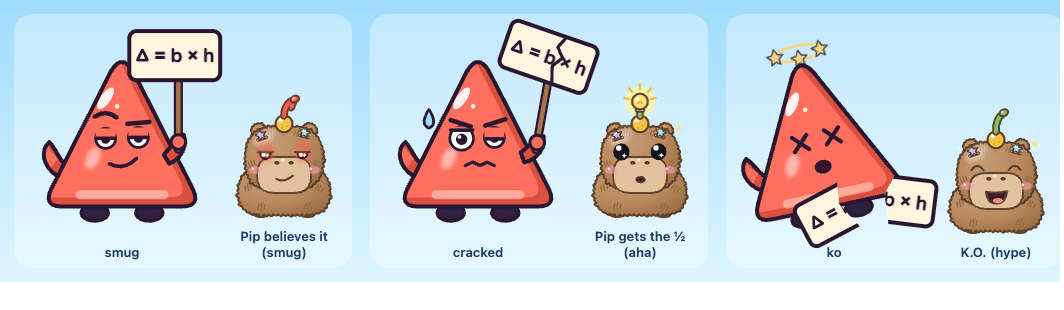
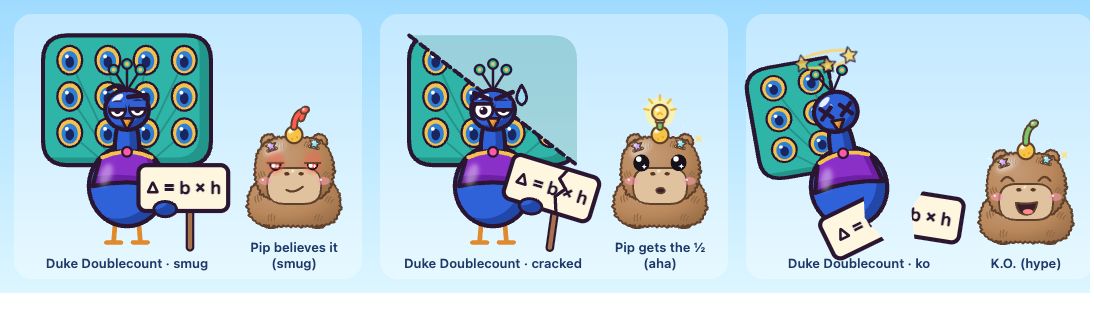
Pip2D: Duke Doublecount peacock boss (fan folds in half); evolution v1-v3; earned items + stickers + comeback frame (P2D-7b, P2D-8)

diff --git a/frontend/src/pip2d/Boss2D.jsx b/frontend/src/pip2d/Boss2D.jsx
@@ -14,14 +14,14 @@ export const BOSS_NAMES = {
   walrus: 'Top-Top Bottom-Bottom',
   penguin: 'Pause-Pause Penguin',
   hamster: 'Hop-Hop Hamster',
-  triangle: 'Triangle boss', // placeholder until content names it (a_tri.assignment.json)
+  triangle: 'Duke Doublecount',
 }
 
 // Pick a boss by id, or by keywords in the lesson's boss name / backstory.
 export function bossIdFor(idOrName = '') {
   const s = String(idOrName).toLowerCase()
   if (BOSS_NAMES[s]) return s
-  if (/triangle|△|tri\b|area|b\s*[×x*]\s*h|base.*height/.test(s)) return 'triangle'
+  if (/doublecount|duke|peacock|triangle|△|tri\b|area|b\s*[×x*]\s*h|base.*height/.test(s)) return 'triangle'
   if (/walrus|top-top|bottom-bottom|fraction/.test(s)) return 'walrus'
   if (/penguin|pause|comma/.test(s)) return 'penguin'
   if (/hamster|hop-hop|suitcase/.test(s)) return 'hamster'
@@ -299,48 +299,93 @@ function Hamster({ state, id }) {
   )
 }
 
-// Placeholder triangle boss: a smug glossy triangle who forgot the 1/2, holding up "△ = b × h".
-function Triangle({ state, id }) {
-  const fill = '#FF6F5E'
-  const shade = '#D9503F'
+// Duke Doublecount (boss id "triangle"): a smug aristocratic peacock in a tiny cape, holding "△ = b × h".
+// He claims the whole rectangle every time: his tail fan is a big rectangle. Each hit divides it by two:
+// cracked = folded diagonally into a triangle; K.O. = folded flat in half.
+function Peacock({ state, id }) {
+  const blue = '#2F62D9'
+  const blueShade = '#2147A8'
   const ko = state === 'ko'
-  const BODY = 'M98,54 Q110,34 122,54 L188,184 Q197,203 176,203 L44,203 Q23,203 32,184 Z'
+  const FAN = 'M48,14 H172 Q198,14 198,40 V124 Q198,150 172,150 H48 Q22,150 22,124 V40 Q22,14 48,14 Z'
+  const spots = []
+  for (const y of [40, 78, 116]) for (const x of [50, 90, 130, 170]) spots.push([x, y])
+  const fanClip =
+    state === 'cracked'
+      ? 'M18,154 L202,154 L18,10 Z' // half of the rectangle: a triangle
+      : ko
+        ? 'M18,10 L110,10 L110,154 L18,154 Z' // folded flat in half
+        : 'M10,6 H210 V160 H10 Z'
   return (
-    <g transform={ko ? 'rotate(-12 110 220)' : undefined}>
-      <V d={ell(80, 210, 15, 9)} fill="#2E2140" uid={`${id}l1`} w={3.6} />
-      <V d={ell(140, 210, 15, 9)} fill="#2E2140" uid={`${id}l2`} w={3.6} />
-      {/* hand on hip */}
-      <V d="M40,170 C22,160 20,140 30,132 C38,140 40,152 50,158 Z" fill={fill} shade={shade} uid={`${id}a1`} />
-      <V d={BODY} fill={fill} shade={shade} uid={`${id}b`} sx={-14} sy={-10} />
-      <path d="M64,190 L156,190" stroke="#FFD0C4" strokeWidth="10" strokeLinecap="round" opacity="0.6" />
-      <Gloss x={92} y={84} rx={14} ry={5.5} rot={-55} />
-      <ellipse cx="78" cy="150" rx="7" ry="13" transform="rotate(25 78 150)" fill="#fff" opacity="0.5" filter={`url(#${id}gel)`} />
-      <BossEyes L={[92, 128]} R={[128, 127]} r={8} state={state} lid={fill} />
-      {state === 'smug' && <path d="M96,156 Q112,164 126,150" fill="none" stroke={INK} strokeWidth="4" strokeLinecap="round" />}
-      {state === 'cracked' && <path d="M96,158 L104,154 L112,158 L120,154 L128,158" fill="none" stroke={INK} strokeWidth="3.6" strokeLinecap="round" strokeLinejoin="round" />}
-      {ko && <ellipse cx="111" cy="158" rx="8" ry="6" fill="#3A1426" stroke={INK} strokeWidth="3" />}
-      {/* the sign, held up high */}
+    <g transform={ko ? 'rotate(-10 110 232)' : undefined}>
+      <defs>
+        <clipPath id={`${id}fan`}>
+          <path d={fanClip} />
+        </clipPath>
+      </defs>
+      {/* the rectangle tail fan */}
+      <g transform={ko ? 'translate(0 22) scale(1 0.86)' : undefined}>
+        {state === 'cracked' && <path d="M22,14 L198,150 L198,40 Q198,14 172,14 Z" fill="#1F8C82" opacity="0.28" />}
+        <g clipPath={`url(#${id}fan)`}>
+          <V d={FAN} fill="#2FB5A8" shade="#23968B" uid={`${id}f`} sx={-12} sy={-8} />
+          {spots.map(([x, y], i) => (
+            <path key={`r${i}`} d={`M110,168 L${x},${y}`} stroke="#1F7C73" strokeWidth="2" opacity="0.6" />
+          ))}
+          {spots.map(([x, y], i) => (
+            <g key={i}>
+              <ellipse cx={x} cy={y} rx="13" ry="15" fill="#F2C14E" stroke={INK} strokeWidth="2.4" />
+              <ellipse cx={x} cy={y + 1} rx="8.5" ry="10.5" fill="#2E7FD6" />
+              <ellipse cx={x} cy={y + 2} rx="4.5" ry="6" fill="#1B2560" />
+              <circle cx={x - 3} cy={y - 4} r="2" fill="#fff" />
+            </g>
+          ))}
+        </g>
+        {state === 'cracked' && <path d="M22,14 L198,150" stroke={INK} strokeWidth="4" strokeLinecap="round" strokeDasharray="10 5" />}
+        {ko && <path d="M110,14 L110,150" stroke={INK} strokeWidth="4" strokeLinecap="round" strokeDasharray="10 5" />}
+      </g>
+      {/* legs */}
+      <path d="M98,206 L96,230 M122,206 L124,230" stroke="#E08A2E" strokeWidth="5" strokeLinecap="round" />
+      <path d="M88,231 L104,231 M116,231 L132,231" stroke="#E08A2E" strokeWidth="4.5" strokeLinecap="round" />
+      {/* body + neck + head */}
+      <V d={ell(110, 172, 40, 42)} fill={blue} shade={blueShade} uid={`${id}b`} />
+      <V d="M98,150 C96,128 98,112 102,104 L118,104 C122,112 124,128 122,150 Z" fill={blue} shade={blueShade} uid={`${id}n`} />
+      <V d={ell(110, 92, 23, 21)} fill={blue} shade={blueShade} uid={`${id}h`} sx={-6} sy={-5} />
+      {/* crest */}
+      {[[96, 50], [110, 44], [124, 50]].map(([x, y], i) => (
+        <g key={i}>
+          <path d={`M110,72 L${x},${y}`} stroke={INK} strokeWidth="2.6" strokeLinecap="round" />
+          <circle cx={x} cy={y} r="5" fill="#2FB5A8" stroke={INK} strokeWidth="2.4" />
+          <circle cx={x} cy={y} r="2" fill="#F2C14E" />
+        </g>
+      ))}
+      <Gloss x={100} y={80} rx={7} ry={3} rot={-35} />
+      <BossEyes L={[100, 92]} R={[121, 91]} r={5.5} state={state} lid={blue} />
+      <V d="M104,101 L117,101 L110,113 Z" fill="#F2A33A" shade="#D9862A" uid={`${id}bk`} w={3} sx={-3} sy={-2} />
+      {/* tiny cape with a gold clasp */}
+      <V d="M82,142 Q110,128 138,142 L146,172 Q110,164 74,172 Z" fill="#8B2FC9" shade="#6E1FA6" uid={`${id}cape`} />
+      <path d="M84,142 Q110,130 136,142" fill="none" stroke="#F2C14E" strokeWidth="4" strokeLinecap="round" />
+      <circle cx="110" cy="136" r="5" fill="#FF5AA5" stroke={INK} strokeWidth="2.4" />
+      <ellipse cx="88" cy="160" rx="6" ry="12" transform="rotate(20 88 160)" fill="#fff" opacity="0.4" filter={`url(#${id}gel)`} />
+      {/* the sign */}
       {ko ? (
         <g>
           <path d="M184,236 L178,206" stroke="#8A5A3C" strokeWidth="7" strokeLinecap="round" />
-          <Board x={96} y={176} w={104} h={50} lines={['△ = b × h']} size={21} state="ko" id={`${id}s`} />
+          <Board x={98} y={182} w={100} h={46} lines={['△ = b × h']} size={19} state="ko" id={`${id}s`} />
         </g>
       ) : (
-        <g transform={state === 'cracked' ? 'rotate(10 170 150)' : undefined}>
-          <V d="M162,156 C176,150 182,136 178,124 C170,126 164,138 156,146 Z" fill={fill} shade={shade} uid={`${id}a2`} />
-          <path d="M172,140 L172,62" stroke={INK} strokeWidth="10" strokeLinecap="round" />
-          <path d="M172,140 L172,62" stroke="#A8724C" strokeWidth="5" strokeLinecap="round" />
-          <Board x={118} y={10} w={100} h={54} lines={['△ = b × h']} size={21} state={state === 'cracked' ? 'cracked' : 'smug'} id={`${id}s`} />
-          <circle cx="172" cy="132" r="8" fill={fill} stroke={INK} strokeWidth="3.4" />
+        <g transform={state === 'cracked' ? 'rotate(8 170 190)' : undefined}>
+          <path d="M176,236 L176,196" stroke={INK} strokeWidth="9" strokeLinecap="round" />
+          <path d="M176,236 L176,196" stroke="#A8724C" strokeWidth="4.5" strokeLinecap="round" />
+          <Board x={122} y={150} w={94} h={48} lines={['△ = b × h']} size={19} state={state === 'cracked' ? 'cracked' : 'smug'} id={`${id}s`} />
+          <V d={ell(150, 196, 12, 8)} fill={blue} shade={blueShade} uid={`${id}w`} w={3} />
         </g>
       )}
-      {state === 'cracked' && <Sweat x={56} y={96} />}
-      {ko && <KOStars x={110} y={30} />}
+      {state === 'cracked' && <Sweat x={140} y={66} />}
+      {ko && <KOStars x={110} y={36} />}
     </g>
   )
 }
 
-const ART = { walrus: Walrus, penguin: Penguin, hamster: Hamster, triangle: Triangle }
+const ART = { walrus: Walrus, penguin: Penguin, hamster: Hamster, triangle: Peacock }
 
 export function Boss2D({ boss = 'walrus', state, hp, size = 200, className = '', title }) {
   const id = useId().replace(/:/g, '')

diff --git a/frontend/src/pip2d/Pip2D.jsx b/frontend/src/pip2d/Pip2D.jsx
@@ -1,10 +1,13 @@
 import { useEffect, useId, useRef, useState } from 'react'
 import { BLUSH, BOSS_TINT, EYE, MOOD_ALIASES, MOUTH, TONGUE } from './tokens'
 import { CREATURE_DEFS } from './creatures'
-import { mix } from './shapes'
+import { mix, Shape } from './shapes'
+import { ellipsePoints } from './fuzz'
+import { HalfPinArt, FixedStarArt } from './earned'
 import { ACCESSORIES_2D, Y2KDefs, Gel, Glint, Sparkles, StarClips, Charm, FrostVisor, Shades, HoloBandAid, RimLight, starPath } from './y2k'
 
 export { ACCESSORIES_2D }
+export { Sticker2D, ComebackFrame, EARNED_ITEMS } from './earned'
 import './pip2d.css'
 
 // Pip as a flat, hand-inked 2D character. viewBox 200 x 220, no dependencies.
@@ -183,7 +186,7 @@ function talkShape(mouth) {
   return 'o'
 }
 
-function Sprout({ pose, anchor, t, flower, tint, gid }) {
+function Sprout({ pose, anchor, t, flower, tint, gid, grown }) {
   const sp = SPROUTS[pose] ?? SPROUTS.droop
   const col = tint ?? (anchor.yuzu ? '#7CC46A' : t.body)
   const [tx, ty] = sp.tip
@@ -211,6 +214,14 @@ function Sprout({ pose, anchor, t, flower, tint, gid }) {
         )}
         <path d={sp.d} fill="none" stroke={t.ink} strokeWidth="13" strokeLinecap="round" strokeLinejoin="round" />
         <path d={sp.d} fill="none" stroke={col} strokeWidth="6.5" strokeLinecap="round" strokeLinejoin="round" />
+        {grown && !bulb && (
+          // v2: a second leaf on the stem + a small glowing bud
+          <g>
+            <ellipse cx="91" cy="33" rx="7.5" ry="4.5" transform="rotate(30 91 33)" fill={col} stroke={t.ink} strokeWidth="3" />
+            <circle className="pip2d-glow" cx={tx + 6} cy={ty - 6} r="7" fill="#FFF3A0" />
+            <circle cx={tx + 6} cy={ty - 6} r="3.6" fill="#FFD25A" stroke={t.ink} strokeWidth="2" />
+          </g>
+        )}
         {pose === 'crown' && (
           <path d={`M${tx - 20},${ty + 8} L${tx - 22},${ty - 10} L${tx - 11},${ty - 2} L${tx},${ty - 22} L${tx + 11},${ty - 2} L${tx + 22},${ty - 10} L${tx + 20},${ty + 8} Z`} fill="#FFD25A" stroke={t.ink} strokeWidth="3.4" strokeLinejoin="round" />
         )}
@@ -245,6 +256,8 @@ function Sprout({ pose, anchor, t, flower, tint, gid }) {
 function Accessory({ type, t, A, id, hx0, hx1, visorY }) {
   const [L, R] = A.eyes
   if (type === 'starclips') return <StarClips id={id} A={A} t={t} />
+  if (type === 'half_pin') return <HalfPinArt x={A.badge[0]} y={A.badge[1]} s={1.5} id={id} ink={t.ink} />
+  if (type === 'fixed_it_star') return <FixedStarArt x={A.badge[0]} y={A.badge[1]} s={1.4} id={id} ink={t.ink} />
   if (type === 'charm') return <Charm id={id} A={A} t={t} />
   if (type === 'visor') return <FrostVisor id={id} hx0={hx0} hx1={hx1} y={visorY} t={t} />
   if (type === 'shades') return <Shades id={id} A={A} t={t} />
@@ -396,6 +409,7 @@ export function Pip2D({
   depth = false,
   tilt,
   holo = false,
+  version,
   className = '',
   title,
 }) {
@@ -409,7 +423,10 @@ export function Pip2D({
   const cute = vibe === 'cute'
   const cool = vibe === 'cool'
   const ugly = vibe === 'ugly'
-  const awakened = form === 'awakened'
+  // evolution: v1 base, v2 grown, v3 awakened (form="awakened" is v3)
+  const ver = form === 'awakened' ? 3 : Math.max(1, Math.min(3, Number(version) || 1))
+  const awakened = ver === 3
+  const grown = ver >= 2
   // vibe defaults when no accessory is chosen: cute = star clips, cool = frosted visor
   const acc = accessory === 'none' ? (cute ? 'starclips' : cool ? 'visor' : 'none') : accessory
   const id = useId().replace(/:/g, '')
@@ -419,8 +436,8 @@ export function Pip2D({
 
   // eyes: cool = permanent ~60% lid; ugly = tired (heavier lids + bags)
   const lids = (spec.lids ?? [0.35, 0.37]).map((l) => {
-    const v = ugly ? Math.min(0.6, l + 0.15) : l
-    return cool ? Math.max(v, 0.6) : v
+    const v = (ugly ? Math.min(0.6, l + 0.15) : l) - (grown ? 0.05 : 0)
+    return Math.max(0, cool ? Math.max(v, 0.6) : v)
   })
   const sizes = spec.scale ?? [1, 1]
   const plainEyes = !['arcs', 'spiral', 'dots'].includes(spec.eyes)
@@ -476,6 +493,17 @@ export function Pip2D({
           <ellipse cx="100" cy="128" rx="86" ry="90" fill="none" stroke="#C9FCFC" strokeWidth="2.5" opacity="0.8" />
         </g>
       )}
+      {awakened && (
+        // v3: cape-like fluffy back tuft peeking out at the shoulders
+        <Shape
+          pts={ellipsePoints(100, A.neck.y + 4, (A.neck.x1 - A.neck.x0) / 2 + 16, 38)}
+          fur={{ key: `cape-${def.name}`, seed: 77, amp: 3.6, spacing: 7, tuftChance: 0.35 }}
+          fill={mix(t.body, '#ffffff', 0.25)}
+          shade={t.shade}
+          ink={t.ink}
+          uid={`${id}cape`}
+        />
+      )}
       {acc === 'backpack' && <BackpackBehind t={t} A={A} />}
       {split && (
         <g>
@@ -521,7 +549,15 @@ export function Pip2D({
   )
   const sprout = (
     <>
-      <Sprout pose={awakened ? 'crown' : spec.sprout} anchor={A.sprout} t={t} flower={false} tint={m === 'possessed' ? BOSS_TINT : undefined} gid={id} />
+      {grown && (
+        // v2+: a bigger head tuft around the sprout
+        <g>
+          {[-1, 1, 0].map((k) => (
+            <ellipse key={k} cx={A.sprout.x + k * 10} cy={A.sprout.y + (A.sprout.yuzu ? 22 : 6) - (k === 0 ? 3 : 0)} rx="6" ry="10" transform={`rotate(${k * 35} ${A.sprout.x + k * 10} ${A.sprout.y + (A.sprout.yuzu ? 22 : 6)})`} fill={t.body} stroke={t.ink} strokeWidth="2.6" />
+          ))}
+        </g>
+      )}
+      <Sprout pose={awakened ? 'crown' : spec.sprout} anchor={A.sprout} t={t} flower={false} tint={m === 'possessed' ? BOSS_TINT : undefined} gid={id} grown={grown} />
       {(m === 'aha' || m === 'proud') && <Sparkles A={A} />}
     </>
   )
@@ -530,6 +566,26 @@ export function Pip2D({
     <>
       {m === 'notes' && <Notebook t={t} A={A} />}
       {m === 'overwhelmed' && <SweatDrop at={A.sweat} />}
+      {grown && acc !== 'scarf' && (
+        // level-up collar: a slim glossy holo band with a star tag
+        <g>
+          <path d={`M${A.neck.x0 + 14},${A.neck.y - 3} Q100,${A.neck.y + 7} ${A.neck.x1 - 14},${A.neck.y - 4}`} fill="none" stroke={t.ink} strokeWidth="9" strokeLinecap="round" />
+          <path d={`M${A.neck.x0 + 14},${A.neck.y - 3} Q100,${A.neck.y + 7} ${A.neck.x1 - 14},${A.neck.y - 4}`} fill="none" stroke={`url(#${id}holo)`} strokeWidth="5" strokeLinecap="round" />
+          <path d={starPath(100, A.neck.y + 10, 6.5)} fill="#FFD25A" stroke={t.ink} strokeWidth="2" strokeLinejoin="round" />
+        </g>
+      )}
+      {awakened && (
+        // v3: star-glint fur sheen
+        <g>
+          {[
+            [A.blush[0][0] - 6, A.blush[0][1] + 24, 4.5],
+            [A.blush[1][0] + 4, A.blush[1][1] + 30, 5.5],
+            [A.head.cx + A.head.w * 0.36, A.head.top + 26, 4],
+          ].map(([x, y, r], i) => (
+            <Glint key={i} x={x} y={y} r={r} />
+          ))}
+        </g>
+      )}
       {ugly && <HoloBandAid A={A} t={t} id={id} />}
       {ugly && acc !== 'starclips' && <StarClips id={id} A={A} t={t} bent />}
       <Accessory type={acc} t={t} A={A} id={id} hx0={hx0} hx1={hx1} visorY={visorY} />

diff --git a/frontend/src/pip2d/earned.jsx b/frontend/src/pip2d/earned.jsx
@@ -1,0 +1,96 @@
+import { useId } from 'react'
+import { Gel, Y2KDefs, starPath } from './y2k'
+
+// Earned commemorative items: wearable on Pip (accessory ids) and as album stickers.
+export const EARNED_ITEMS = ['half_pin', 'fixed_it_star']
+
+// Glossy enamel pin: a triangle split in half (gold rim, two enamel halves).
+export function HalfPinArt({ x, y, s = 1, id, ink = '#2A1630' }) {
+  const T = (dx, dy) => `${x + dx * s},${y + dy * s}`
+  return (
+    <g>
+      <path d={`M${T(0, -13)} L${T(13, 10)} L${T(-13, 10)} Z`} fill="#F2C14E" stroke={ink} strokeWidth={2.6} strokeLinejoin="round" />
+      <path d={`M${T(0, -8.5)} L${T(0, 7)} L${T(-9, 7)} Z`} fill="#FF8FC7" />
+      <path d={`M${T(0, -8.5)} L${T(9, 7)} L${T(0, 7)} Z`} fill="#7FE9FF" />
+      <path d={`M${T(0, -10)} L${T(0, 9)}`} stroke="#B98A1E" strokeWidth={1.6} strokeDasharray="2 1.6" />
+      <Gel id={id} x={x - 4 * s} y={y - 2 * s} r={2.6 * s} />
+    </g>
+  )
+}
+
+// Gold star with a small band-aid: earned by winning after a re-teach.
+export function FixedStarArt({ x, y, s = 1, id, ink = '#2A1630' }) {
+  return (
+    <g>
+      <path d={starPath(x, y, 13 * s)} fill="#FFD25A" stroke={ink} strokeWidth={2.6} strokeLinejoin="round" />
+      <g transform={`rotate(-28 ${x} ${y})`}>
+        <rect x={x - 9 * s} y={y - 3 * s} width={18 * s} height={6.5 * s} rx={3 * s} fill="#F2D3B1" stroke={ink} strokeWidth={1.8} />
+        <rect x={x - 3 * s} y={y - 2 * s} width={6 * s} height={4.5 * s} rx={1} fill="#E8BE94" />
+      </g>
+      <Gel id={id} x={x - 5 * s} y={y - 5 * s} r={2.6 * s} />
+    </g>
+  )
+}
+
+// Album sticker: die-cut white border + holo sheen. item = half_pin | fixed_it_star | comeback
+export function Sticker2D({ item = 'half_pin', size = 96, label }) {
+  const id = useId().replace(/:/g, '')
+  const art =
+    item === 'fixed_it_star' ? (
+      <FixedStarArt x={50} y={46} s={2.2} id={id} />
+    ) : item === 'comeback' ? (
+      <g>
+        <path d={starPath(50, 44, 26)} fill={`url(#${id}holo)`} stroke="#2A1630" strokeWidth="3" strokeLinejoin="round" />
+        <path d="M30,46 Q50,30 70,46" fill="none" stroke="#2A1630" strokeWidth="3" strokeLinecap="round" />
+        <path d="M44,54 L50,60 L58,48" fill="none" stroke="#2A1630" strokeWidth="3.4" strokeLinecap="round" strokeLinejoin="round" />
+      </g>
+    ) : (
+      <HalfPinArt x={50} y={48} s={2.3} id={id} />
+    )
+  const text = label ?? (item === 'fixed_it_star' ? 'FIXED IT' : item === 'comeback' ? 'COMEBACK' : '½ OF IT')
+  return (
+    <svg width={size} height={size} viewBox="0 0 100 100" role="img" aria-label={`${text} sticker`}>
+      <defs>
+        <Y2KDefs id={id} />
+      </defs>
+      <circle cx="50" cy="50" r="47" fill="#fff" stroke="#D9E2EA" strokeWidth="2" />
+      <circle cx="50" cy="50" r="41" fill={`url(#${id}holo)`} opacity="0.35" />
+      {art}
+      <path d="M22,26 Q36,12 56,12" fill="none" stroke="#fff" strokeWidth="5" strokeLinecap="round" opacity="0.8" />
+      <text x="50" y="86" textAnchor="middle" fontFamily="system-ui, sans-serif" fontWeight="900" fontSize="11" fill="#2A1630">
+        {text}
+      </text>
+    </svg>
+  )
+}
+
+// Holographic "comeback" frame for K.O. cards (wraps any content).
+export function ComebackFrame({ width = 220, height = 300, children }) {
+  const id = useId().replace(/:/g, '')
+  return (
+    <div style={{ position: 'relative', width, height }}>
+      <svg width={width} height={height} viewBox={`0 0 ${width} ${height}`} style={{ position: 'absolute', inset: 0 }} aria-hidden>
+        <defs>
+          <Y2KDefs id={id} />
+        </defs>
+        <rect x="3" y="3" width={width - 6} height={height - 6} rx="22" fill="none" stroke={`url(#${id}holo)`} strokeWidth="7" />
+        <rect x="9" y="9" width={width - 18} height={height - 18} rx="17" fill="none" stroke={`url(#${id}chrome)`} strokeWidth="2.5" />
+        {[
+          [20, 20],
+          [width - 20, 20],
+          [20, height - 20],
+          [width - 20, height - 20],
+        ].map(([x, y], i) => (
+          <path key={i} d={starPath(x, y, 9)} fill="#FFE27A" stroke="#2A1630" strokeWidth="2" strokeLinejoin="round" />
+        ))}
+        <g transform={`translate(${width / 2} ${height - 16})`}>
+          <rect x="-48" y="-12" width="96" height="22" rx="11" fill={`url(#${id}holo)`} stroke="#2A1630" strokeWidth="2.4" />
+          <text y="4" textAnchor="middle" fontFamily="system-ui, sans-serif" fontWeight="900" fontSize="11" letterSpacing="1" fill="#2A1630">
+            COMEBACK
+          </text>
+        </g>
+      </svg>
+      <div style={{ position: 'absolute', inset: 14, bottom: 34, overflow: 'hidden', borderRadius: 14, display: 'grid', placeItems: 'center' }}>{children}</div>
+    </div>
+  )
+}

diff --git a/frontend/src/pip2d/y2k.jsx b/frontend/src/pip2d/y2k.jsx
@@ -1,7 +1,7 @@
 // Y2K finish for the soft Pips: gel shine, holo/chrome gradients, star clips, charm, frosted visor, shield shades.
 // Everything reads from the SVG's shared defs (Y2KDefs) so each Pip adds only a few gradients.
 
-export const ACCESSORIES_2D = ['none', 'glasses', 'scarf', 'pencil', 'badge', 'backpack', 'starclips', 'charm', 'visor', 'shades']
+export const ACCESSORIES_2D = ['none', 'glasses', 'scarf', 'pencil', 'badge', 'backpack', 'starclips', 'charm', 'visor', 'shades', 'half_pin', 'fixed_it_star']
 
 export function Y2KDefs({ id }) {
   return (
